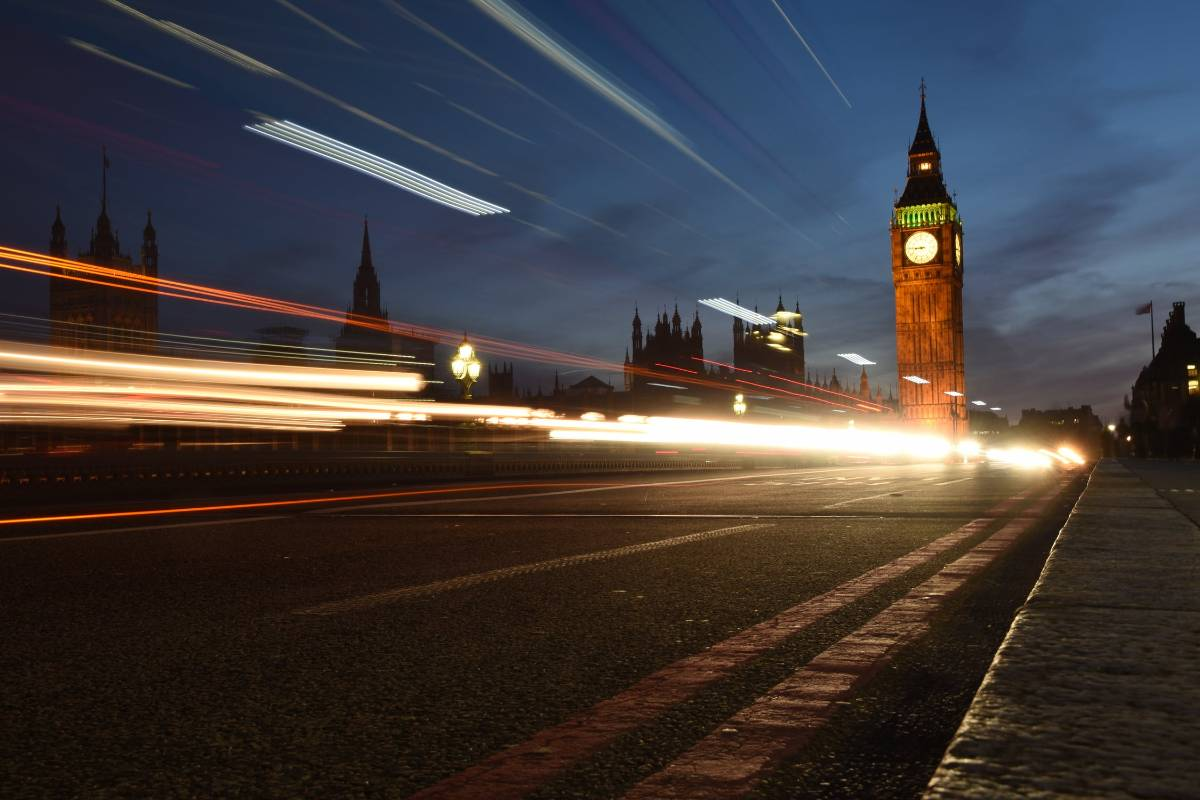
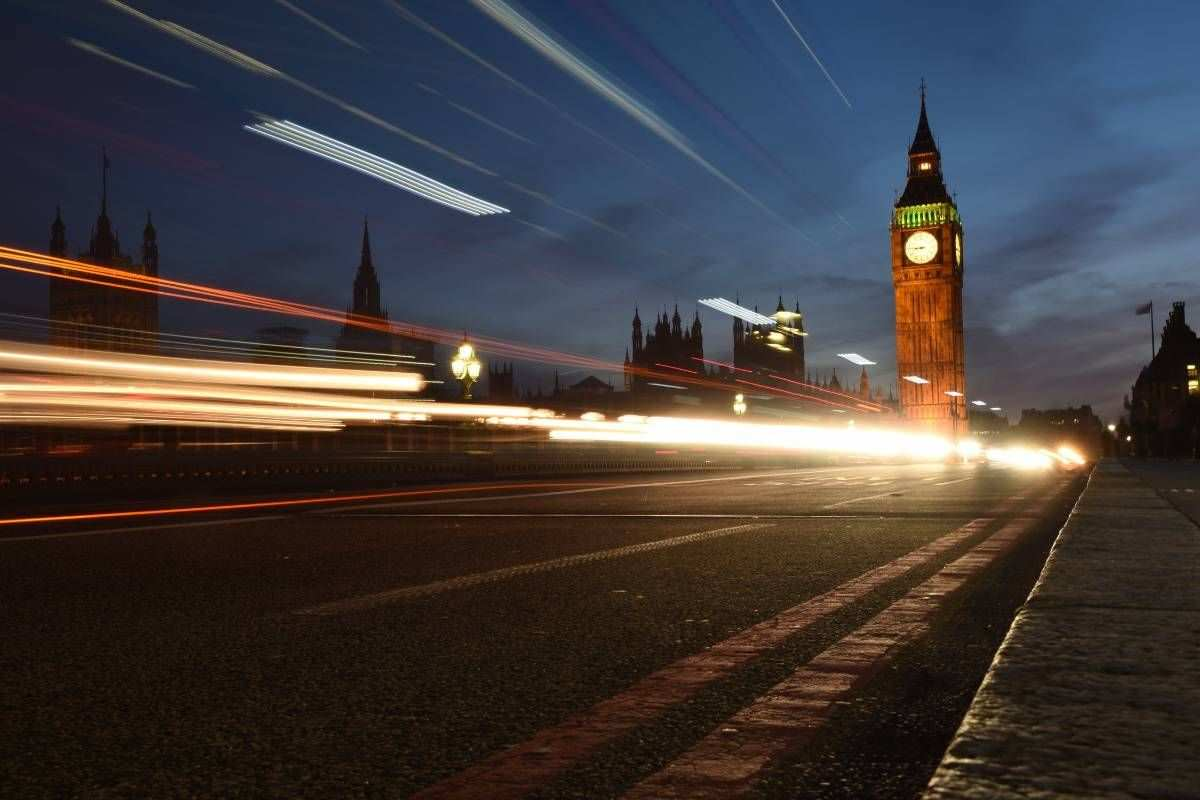
compressed and progressive jpgs

Changed region(s): [[0.0617, 0.3438, 0.1542, 0.375], [0.74, 0.25, 0.8017, 0.2812], [0.0, 0.3125, 0.0617, 0.3438]]

diff --git a/admin/util.js b/admin/util.js
@@ -115,3 +115,26 @@ module.exports.syncThemeSettings = (client, newSettings, authorization) => {
             return Promise.all([promises, updatePromises]);
         });
 };
+
+// A utility function to convert all jpeg images in uploads folder to progressive jpeg images
+// const optimizeImage = function() {
+//     const sharp = require("sharp");
+//     const fs = require("fs");
+//     const path = require("path");
+//     const imageFolder = path.join(__dirname, "../public/uploads");
+//     const files = fs.readdirSync(imageFolder);
+//     for (var i in files) {
+//         let file = files[i];
+//         if (file.indexOf("loading.jpg") >= 0) {
+//             let image = imageFolder + "/" + file;
+//             let saveImage = imageFolder + "/pjpeg/" + file;
+//             sharp(image)
+//                 .jpeg({ progressive: true })
+//                 .toFile(saveImage, (err, info) => {
+//                     console.log("err: ", err);
+//                     console.log("info: ", info);
+//                 });
+//         }
+//     }
+// };
+// optimizeImage();

diff --git a/api/utils/customStorage.js b/api/utils/customStorage.js
@@ -20,9 +20,9 @@ customStorage.prototype._handleFile = function _handleFile(req, file, cb) {
                 .resize(1200, 800)
                 .background("transparent")
                 .embed()
-                .jpeg({ quality: 65 });
+                .jpeg({ quality: 65, progressive: true });
         } else if (req.body.type == "post_image") {
-            transform = transform.jpeg({ quality: 65 });
+            transform = transform.jpeg({ quality: 65, progressive: true });
         }
 
         file.stream.pipe(transform).pipe(outStream);

diff --git a/shared/data-connectors/PostsData.js b/shared/data-connectors/PostsData.js
@@ -13,8 +13,7 @@ export default graphql(CAT_POSTS, {
                 postType: "post",
                 limit: props.limit || config.itemsPerPage,
                 offset: props.offset || offset || 0
-            },
-            fetchPolicy: "network-only"
+            }
         };
     },
     props: ({ data: { loading, postsMenu, fetchMore } }) => {
